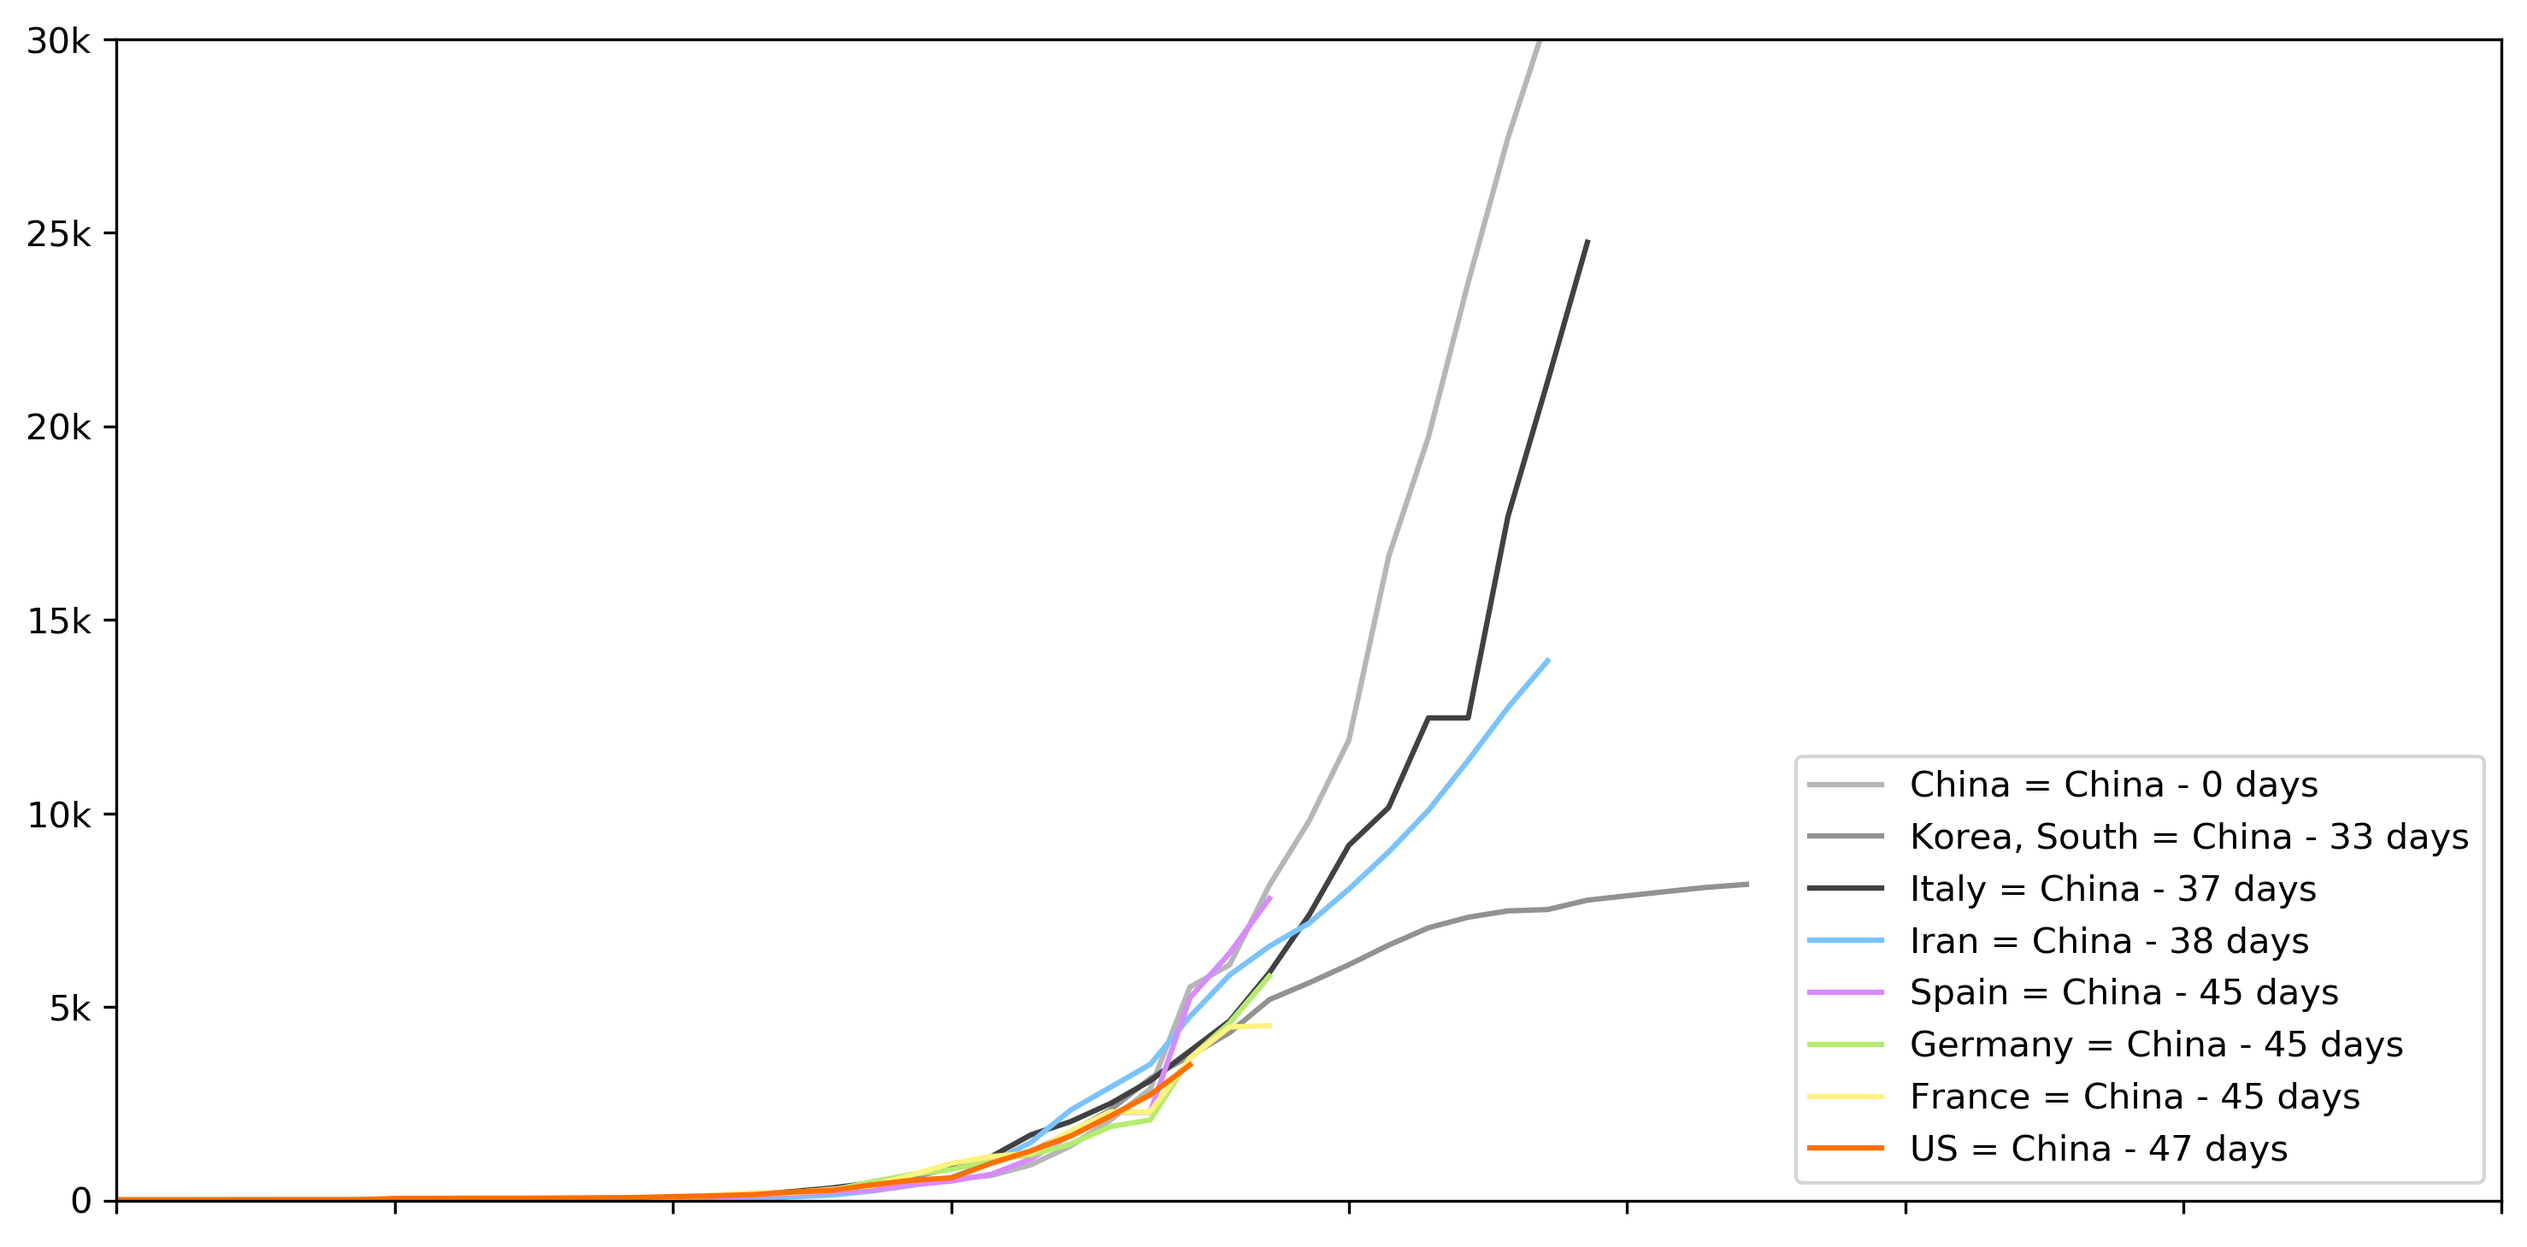
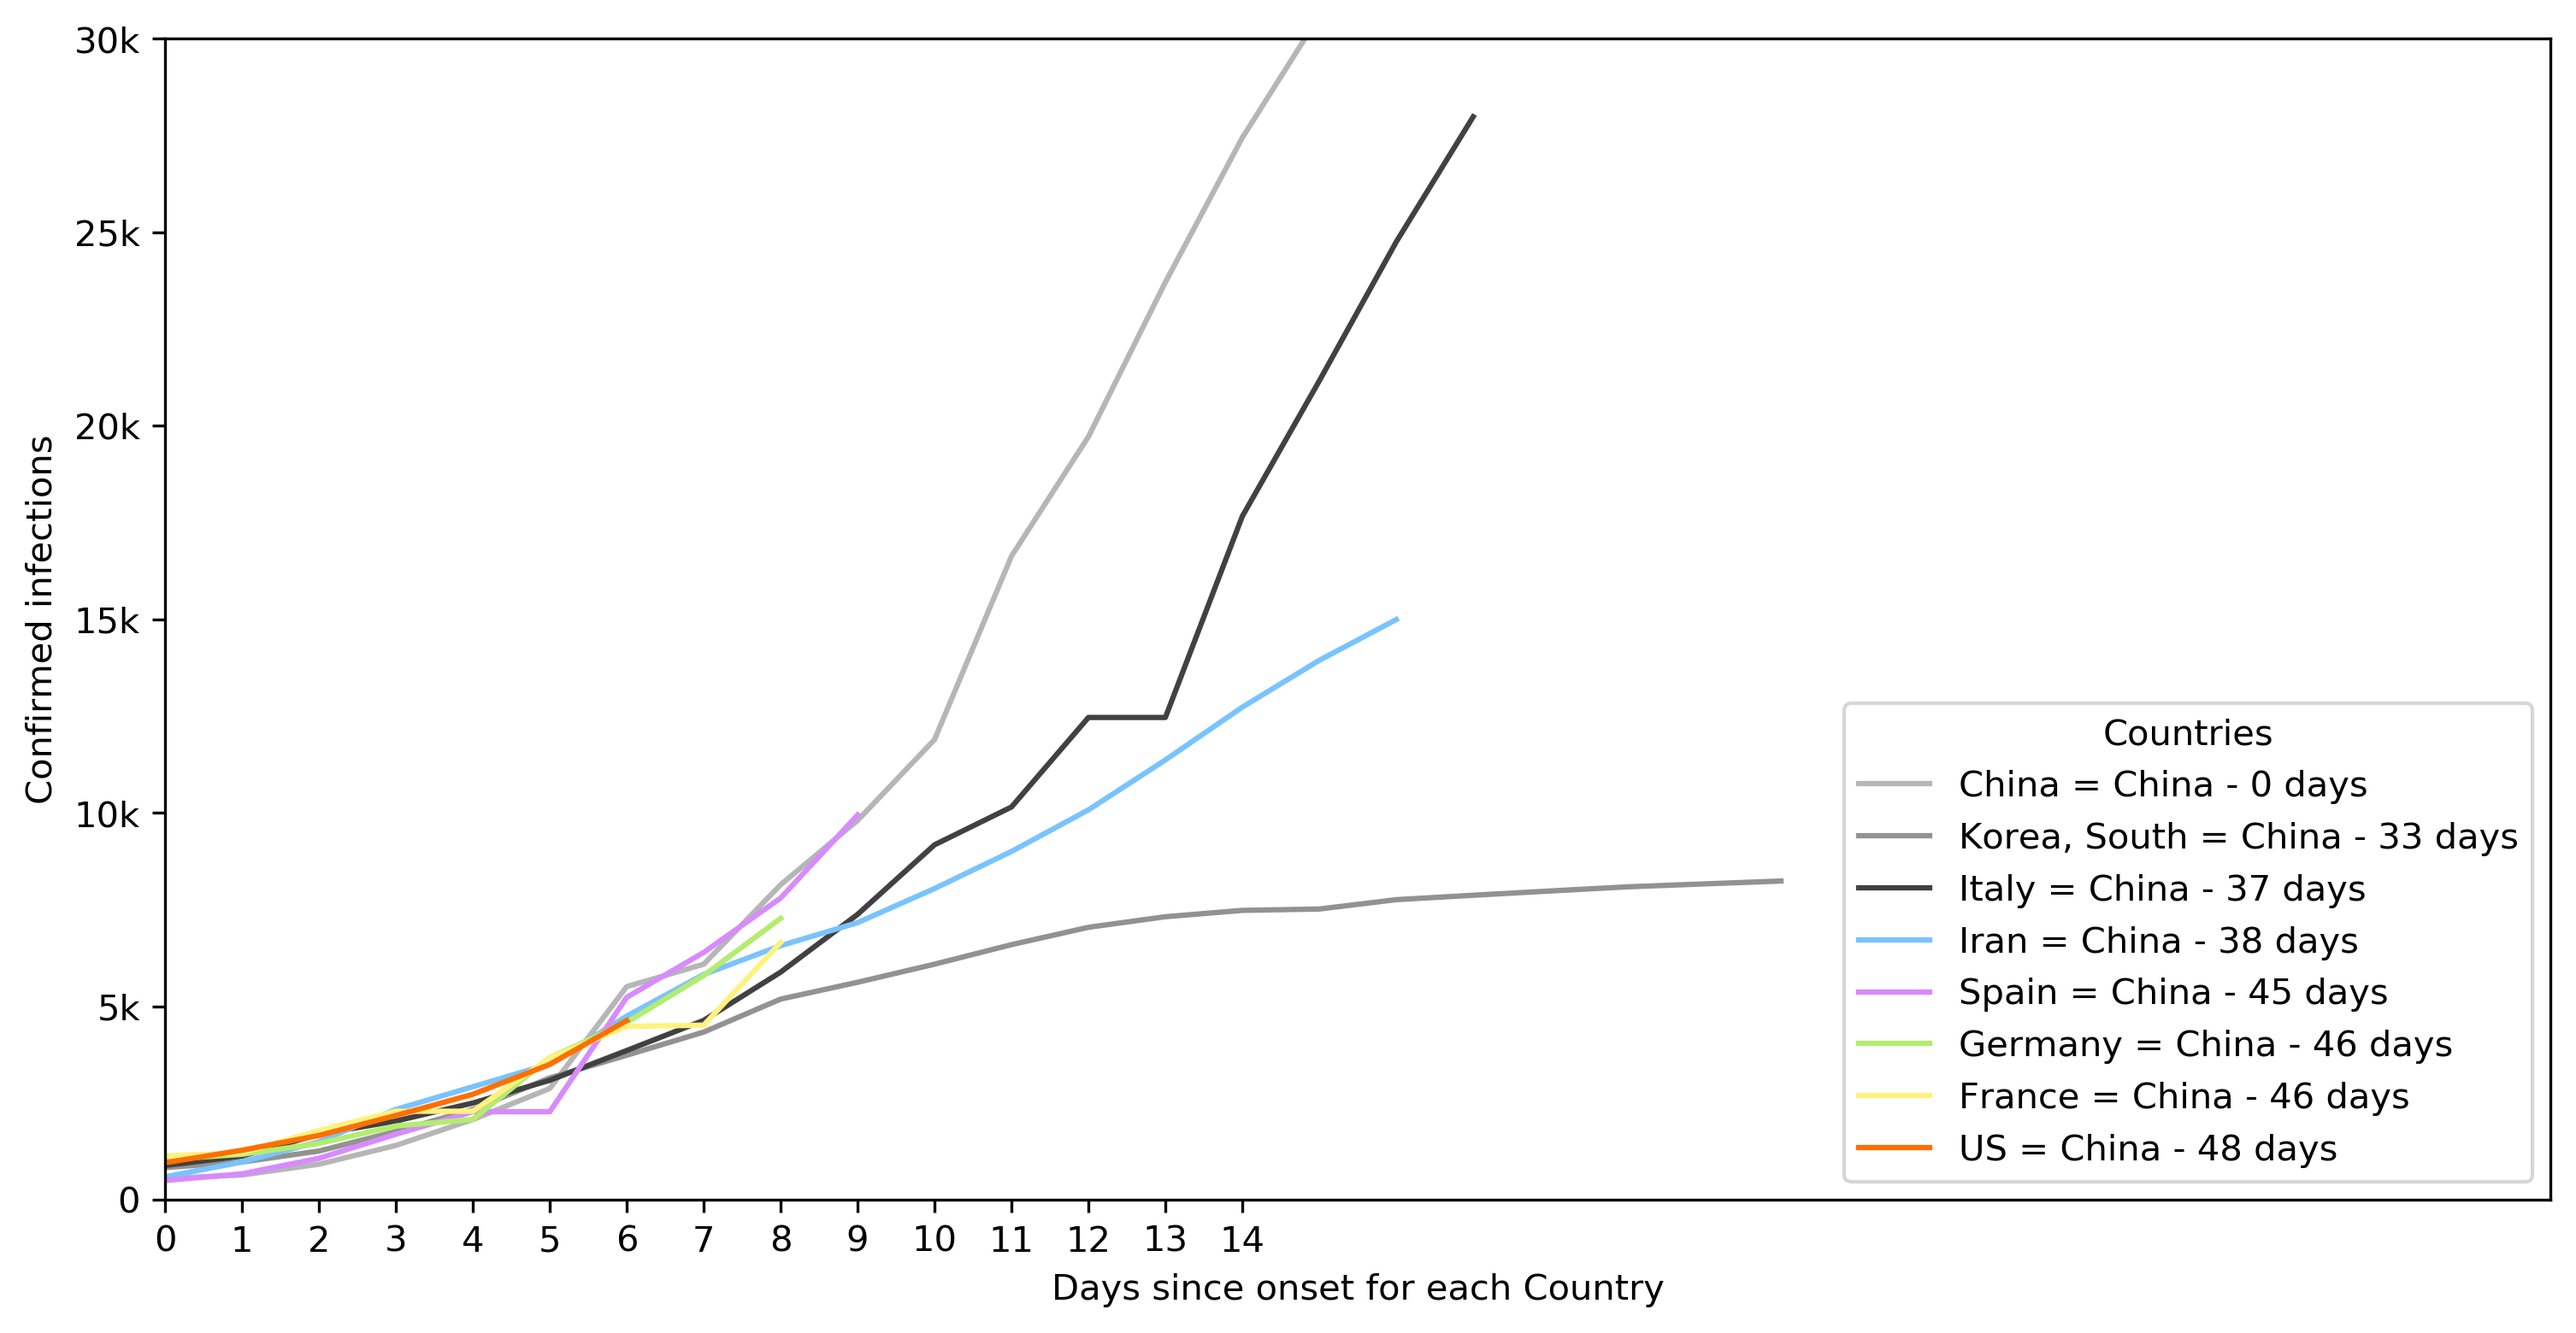
updates
- fit offset separately
- improve plots

diff --git a/plot_trends.py b/plot_trends.py
@@ -11,6 +11,7 @@ dirname = pathlib.Path(__file__).resolve().parent
 pd.set_option('display.max_columns', 200)
 pd.set_option('display.max_rows', 200)
 colors = {
+  'very_light_gray': '#ececec',
   'light_gray': '#b6b6b6',
   'medium_gray': '#929292',
   'very_dark_gray': '#414141',
@@ -39,20 +40,44 @@ countries = { key: convert_to_ts(data, key) for key in country_names}
 
 #%% figure 1
 dat = [
-  ('China', 0, 'light_gray'),
-  ('Korea, South', 33, 'medium_gray'),
-  ('Italy', 37, 'very_dark_gray'),
-  ('Iran', 38, 'light_blue'),
-  ('Spain', 45, 'light_purple'),
-  ('Germany', 45, 'light_green'),
-  ('France', 45, 'light_yellow'),
-  ('US', 47, 'orange')
+  { 'name': 'China', 'color': 'light_gray' },
+  { 'name': 'Korea, South', 'color': 'medium_gray' },
+  { 'name': 'Italy', 'color': 'very_dark_gray' },
+  { 'name': 'Iran', 'color': 'light_blue' },
+  { 'name': 'Spain', 'color': 'light_purple' },
+  { 'name': 'Germany', 'color': 'light_green' },
+  { 'name': 'France', 'color': 'light_yellow' },
+  { 'name': 'US', 'color': 'orange' },
 ]
 
+#%% compute offset for each country that best fits onset of epidemic (i.e., first 7 days)
+def comparison_to_china_penalty (df, offset):
+  china_counts = countries['China']['count'].to_numpy()
+  counts = df['count'].to_numpy()
+  residuals = []
+  for i in range(0, 7):
+    if i + offset < len(counts):
+      residuals.append(china_counts[i] - counts[i + offset])
+    else:
+      residuals.append(0)
+  return np.power(residuals, 2).sum()
+
+def find_optimal_offset (df):
+  penalties = []
+  for offset in range(len(df)):
+    penalties.append(comparison_to_china_penalty(df, offset))
+  return np.argmin(penalties)
+
+for d in dat:
+  d['offset'] = find_optimal_offset(countries[d['name']])
+print(np.array(dat))
+
+#%% plot the initial epidemic onsets for each country adjusted by their onset offsets
 fig = plt.figure(figsize=(12, 6))
 ax = fig.add_subplot(111)
 
-for country_name, offset, color_key in dat:
+for d in dat:
+  country_name, offset, color_key = itemgetter('name', 'offset', 'color')(d)
   country = countries[country_name]
   ax.plot(
     country['date'] - np.timedelta64(offset, 'D'),
@@ -61,44 +86,50 @@ for country_name, offset, color_key in dat:
     color=colors[color_key]
   )
 
-plt.xlim((np.datetime64('2020-01-01'),np.datetime64('2020-03-01')))
+plt.xlim((np.datetime64('2020-01-22'), np.datetime64('2020-02-22')))
+plt.xticks([np.datetime64('2020-01-22') + np.timedelta64(d, 'D') for d in range(0, 15)])
+ax.set_xticklabels(range(0, 15))
+plt.xlabel('Days since onset for each Country')
+
 plt.ylim((0, 30000))
-ax.set_xticklabels([])
 ax.set_yticklabels(['0' if x == 0 else '{:.0f}k'.format(int(x) / 1000) for x in ax.get_yticks().tolist()])
-plt.legend(loc='lower right')
+plt.ylabel('Confirmed infections')
+
+plt.legend(title='Countries', loc='lower right')
 
 if should_print:
   plt.savefig(dirname / f'figures/growth_rate.png', bbox_inches='tight', dpi=300, format='png')
 
 plt.show()
 
-#%% figure 2
-def sigmoid (x, A, h, slope, C):
-  return 1 / (1 + np.exp ((x - h) / slope)) *  A + C
+#%% plot growth curves
+def sigmoid (x, A, slope, offset):
+  return A / (1 + np.exp ((x - (offset + 17.75)) / slope))
 
-def fit_to_sigmoid (df, all_dates):
+def fit_to_sigmoid (df, offset, all_dates):
   dates = (df['date'] - start_date) / np.timedelta64(1, 'D')
   p, _ = curve_fit(
-    sigmoid,
+    lambda x, A, slope: sigmoid(x, A, slope, offset),
     dates,
     df['count'],
-    p0=[ 80000, 17, -5, -1000],
+    p0=[ 80000, -5],
     bounds=(
-      [-np.inf, -np.inf, -np.inf, -np.inf],
-      [np.inf, np.inf, -0.01, np.inf]
+      [-np.inf, -np.inf],
+      [np.inf, -0.01]
     ),
     maxfev=5000,
   )
-  return sigmoid((all_dates - start_date) / np.timedelta64(1, 'D'), *p), p
+  return sigmoid((all_dates - start_date) / np.timedelta64(1, 'D'), *p, offset), p
 
-# Plots the data
+#%% Plots the data
 fig = plt.figure(figsize=(12, 6))
 ax = fig.add_subplot(111)
 
-for country_name, offset, color_key in dat:
+for d in dat:
+  country_name, offset, color_key = itemgetter('name', 'offset', 'color')(d)
   country = countries[country_name]
-  fit, p = fit_to_sigmoid(country, all_dates)
-  print(country_name, *p)
+  fit, p = fit_to_sigmoid(country, offset, all_dates)
+  print(country_name, *p, offset)
 
   ax.plot(
     country['date'],
@@ -114,9 +145,20 @@ for country_name, offset, color_key in dat:
     linestyle=':'
   )
 
-plt.ylim((0, 100000))
+# plots the now line
+y_max = 200000
+now = np.datetime64('now').astype('datetime64[D]') - np.timedelta64(1, 'D')
+plt.vlines(now, ymin=0, ymax=y_max, colors=colors['very_light_gray'], linestyles='dashed')
+plt.annotate('Actual', xy=(now - np.timedelta64(1, 'D'), y_max - 5000), ha='right', va='top')
+plt.annotate('Estimated', xy=(now + np.timedelta64(1, 'D'), y_max - 5000), ha='left', va='top')
+
+plt.xlabel('Date')
+
+plt.ylim((0, y_max))
 ax.set_yticklabels(['0' if x == 0 else '{:.0f}k'.format(int(x) / 1000) for x in ax.get_yticks().tolist()])
-plt.legend(loc='lower right')
+plt.ylabel('Confirmed infections')
+
+plt.legend(title='Countries', loc='lower right')
 
 if should_print:
   plt.savefig(dirname / f'figures/growth_estimations.png', bbox_inches='tight', dpi=300, format='png')
